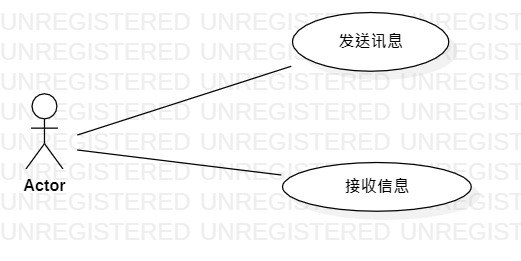
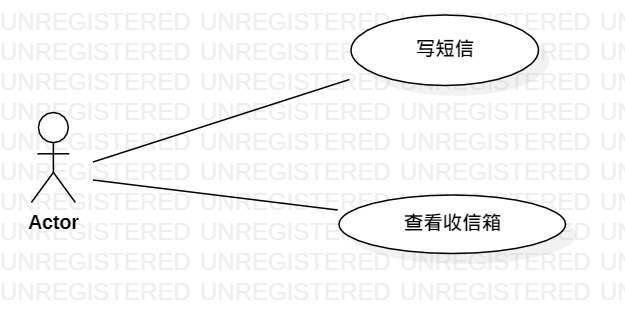
实验二、三修改 + 实验四、五

diff --git a/students/1714080902512/lab2.md b/students/1714080902512/lab2.md
@@ -1,18 +1,18 @@
-# 实验二
+# 实验二：用例建模
 
-## 实验目标
+## 一、实验目标
 
 1. 使用Markdown编写报告 
 2. 细化选题
 3. 学习使用StarUML用例建模 
 
-## 实验内容
+## 二、实验内容
 
 1. 创建用例图 
 2. 编写实验报告文档 
 3. 编写用例规约 
 
-## 实验步骤
+## 三、实验步骤
 
 1、选题为局域网通讯系统（功能：1、侦听端口2、收发消息并保存数据3、传输文件）
 
@@ -28,37 +28,37 @@
 
 7、编写用例规约
 
-## 实验结果
+## 四、实验结果
 
 1、画图
 
 ![UML图](https://github.com/acoffeeworld/uml-modeling-2020/raw/master/students/1714080902512/UseCaseDiagram1.jpg)
 
-表1 发送讯息之用例规约
+表1 写短信之用例规约
 
 | 用例编号 | UC01                                                         | 备注     |
 | -------- | ------------------------------------------------------------ | -------- |
-| 用例名   | 发送讯息                                                     |          |
+| 用例名   | 写短信                                                       |          |
 | 前置条件 | 用户登入局域网通讯系统                                       |          |
 | 后置条件 | 用户进入发信界面                                             |          |
-| 基本流程 | 1.用户点击发信按钮                                           | 成功执行 |
+| 基本流程 | 1.用户点击写信按钮                                           | 成功执行 |
 |          | 2.系统显示发信页面                                           |          |
-|          | 3.用户填入收信人、待发消息，点击发信按钮                     |          |
-|          | 4.系统检测收信地址合理，将收信人、待发消息、发送时间，保存记录后发送 |          |
+|          | 3.用户填入收信人、待发信息，点击发送按钮                     |          |
+|          | 4.系统检测收信地址合理，将收信人、待发信息、发送时间，保存记录后发送 |          |
 |          | 5.发送成功后，系统显示成功页面                               |          |
 | 扩展流程 | 4.1 系统发现收信地址非法，提示用户重新输入                   | 执行错误 |
 |          | 5.1 系统无法发送时，提示用户发送失败，并请其重新输入         | 执行错误 |
 
-表2 接收信息之用例规约
+表2 查看收信箱之用例规约
 
 | 用例编号 | UC02                                             | 备注     |
 | -------- | ------------------------------------------------ | -------- |
-| 用例名   | 接收信息                                         |          |
+| 用例名   | 查看收信箱                                       |          |
 | 前置条件 | 用户登入局域网通讯系统                           | *可选    |
 | 后置条件 | 用户进入收信界面                                 | *可选    |
-| 基本流程 | 1.用户点击收信按钮                               | 成功执行 |
-|          | 2.系统显示收信页面                               |          |
-|          | 3.系统联机检查是否有信息发送至本机               |          |
-|          | 4.系统显示收到的信息                             |          |
-| 扩展流程 | 3.1 系统检查无收到讯息，则提示用户“未接收到讯息” |          |
+| 基本流程 | 1.用户点击查信按钮                               | 成功执行 |
+|          | 2.系统联机查询信箱是否存在信息                   |          |
+|          | 3.系统显示信箱页面                               |          |
+|          | 4.系统展示收到的信息                             |          |
+| 扩展流程 | 2.1 系统检查无收到信息，则提示用户“未接收到信息” |          |
 

diff --git a/students/1714080902512/lab4.md b/students/1714080902512/lab4.md
@@ -1,0 +1,35 @@
+# 实验四五：类建模
+
+## 一、实验目标
+
+1. 掌握类建模；
+2. 了解MVC或你熟悉的设计模式； 
+3. 掌握类图的画法（Class Diagram）
+
+## 二、实验内容
+
+1. 基于MVC模式设计类 
+2. 设计类的关系 
+3. 画出类图
+
+## 三、实验步骤
+
+1. 创建写短信的类图项目
+2. 根据用例规约创建待发信息类，查找待发信息控制器类
+3. 用依赖线连接查找信息控制器类，使用聚合线连接待发信息类
+4. 创建查看收信箱的类图项目
+5. 根据用例规约创建信箱类，寻找已收信息控制器类，信箱显示界面类
+6. 用依赖线连接寻找已收信息控制器类图和其他
+
+## 四、实验结果
+
+画图,如图所示。
+
+01写短信的类图
+
+![UML图][(https://github.com/acoffeeworld/uml-modeling-2020/raw/master/students/1714080902512/class1.jpg)
+
+02查看收信箱的类图
+
+![UML图][(https://github.com/acoffeeworld/uml-modeling-2020/raw/master/students/1714080902512/class2.jpg)
+

diff --git a/students/1714080902512/lab3.md b/students/1714080902512/lab3.md
@@ -1,27 +1,31 @@
-# 实验三
+# 实验三：过程建模
 
-## 实验目标
+## 一、实验目标
 
 1. 掌握过程建模方法；
 2. 掌握活动图的画法。（Activity Diagram）
 
-## 实验步骤
+## 二、实验内容
+
+1. 根据用例规约绘制活动图
+
+## 三、实验步骤
 
 1. 把基本流程和扩展流程的动作画为操作（Action）；
 2. 在出现分支的操作之后使用决策（Decision）节点。
 
-## 实验结果
+## 四、实验结果
 
 画图,如图所示。
 
-01发送讯息的活动图
+01写短信的活动图
 
 ![UML图](https://github.com/acoffeeworld/uml-modeling-2020/raw/master/students/1714080902512/ActivityDiagram1.jpg)
 
-02接收信息的活动图
+02查看收信箱的活动图
 
 ![UML图](https://github.com/acoffeeworld/uml-modeling-2020/raw/master/students/1714080902512/ActivityDiagram2.jpg)
 
-## 实验心得
+## 五、实验心得
 
 这次实验发掘出了实验二中用例的一些遗漏、错误，在看了老师视频后恍然大悟。
